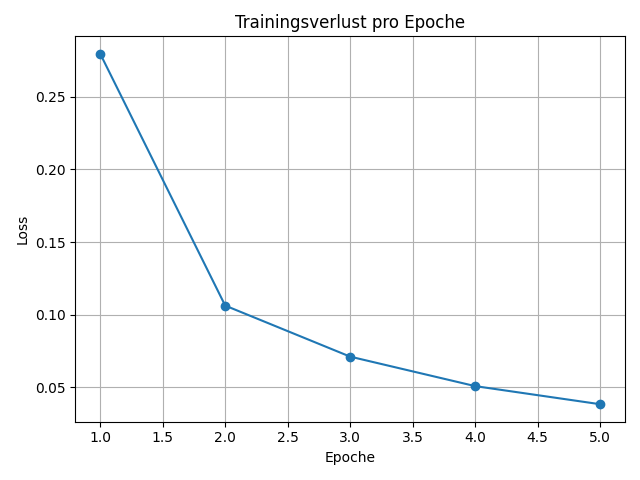
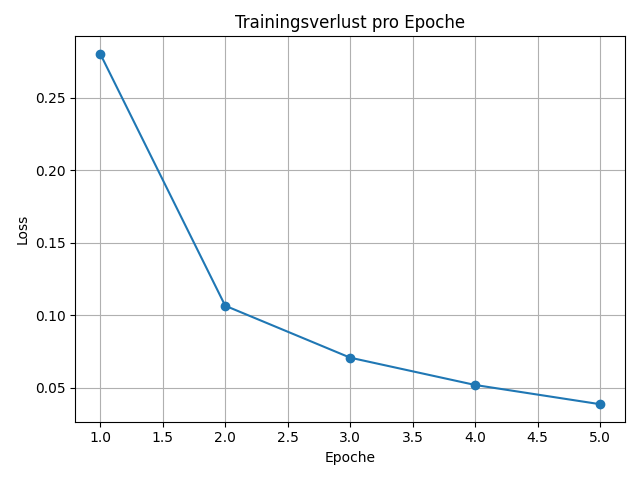
MNIST DataLoader hinzugefügt

diff --git a/src/mlp_ziffern_plot.py b/src/mlp_ziffern_plot.py
@@ -1,0 +1,23 @@
+import matplotlib.pyplot as plt
+
+# Beispielhafte Verlustwerte pro Epoche (aus dem Training)
+loss_history = [0.28, 0.10, 0.07, 0.05, 0.03]
+
+# Epoche-Zähler erstellen
+epochen = range(1, len(loss_history) + 1)
+
+# Plot erstellen
+plt.figure(figsize=(8, 5))
+plt.plot(epochen, loss_history, marker='o', linestyle='-', color='b', label='Trainingsverlust')
+plt.title("MLP Modell – Trainingsverlust pro Epoche")
+plt.xlabel("Epoche")
+plt.ylabel("Verlust (Loss)")
+plt.grid(True)
+plt.legend()
+plt.tight_layout()
+
+# Plot als Bild speichern
+plt.savefig("mlp_loss_plot.png")
+
+# Plot anzeigen
+plt.show()
